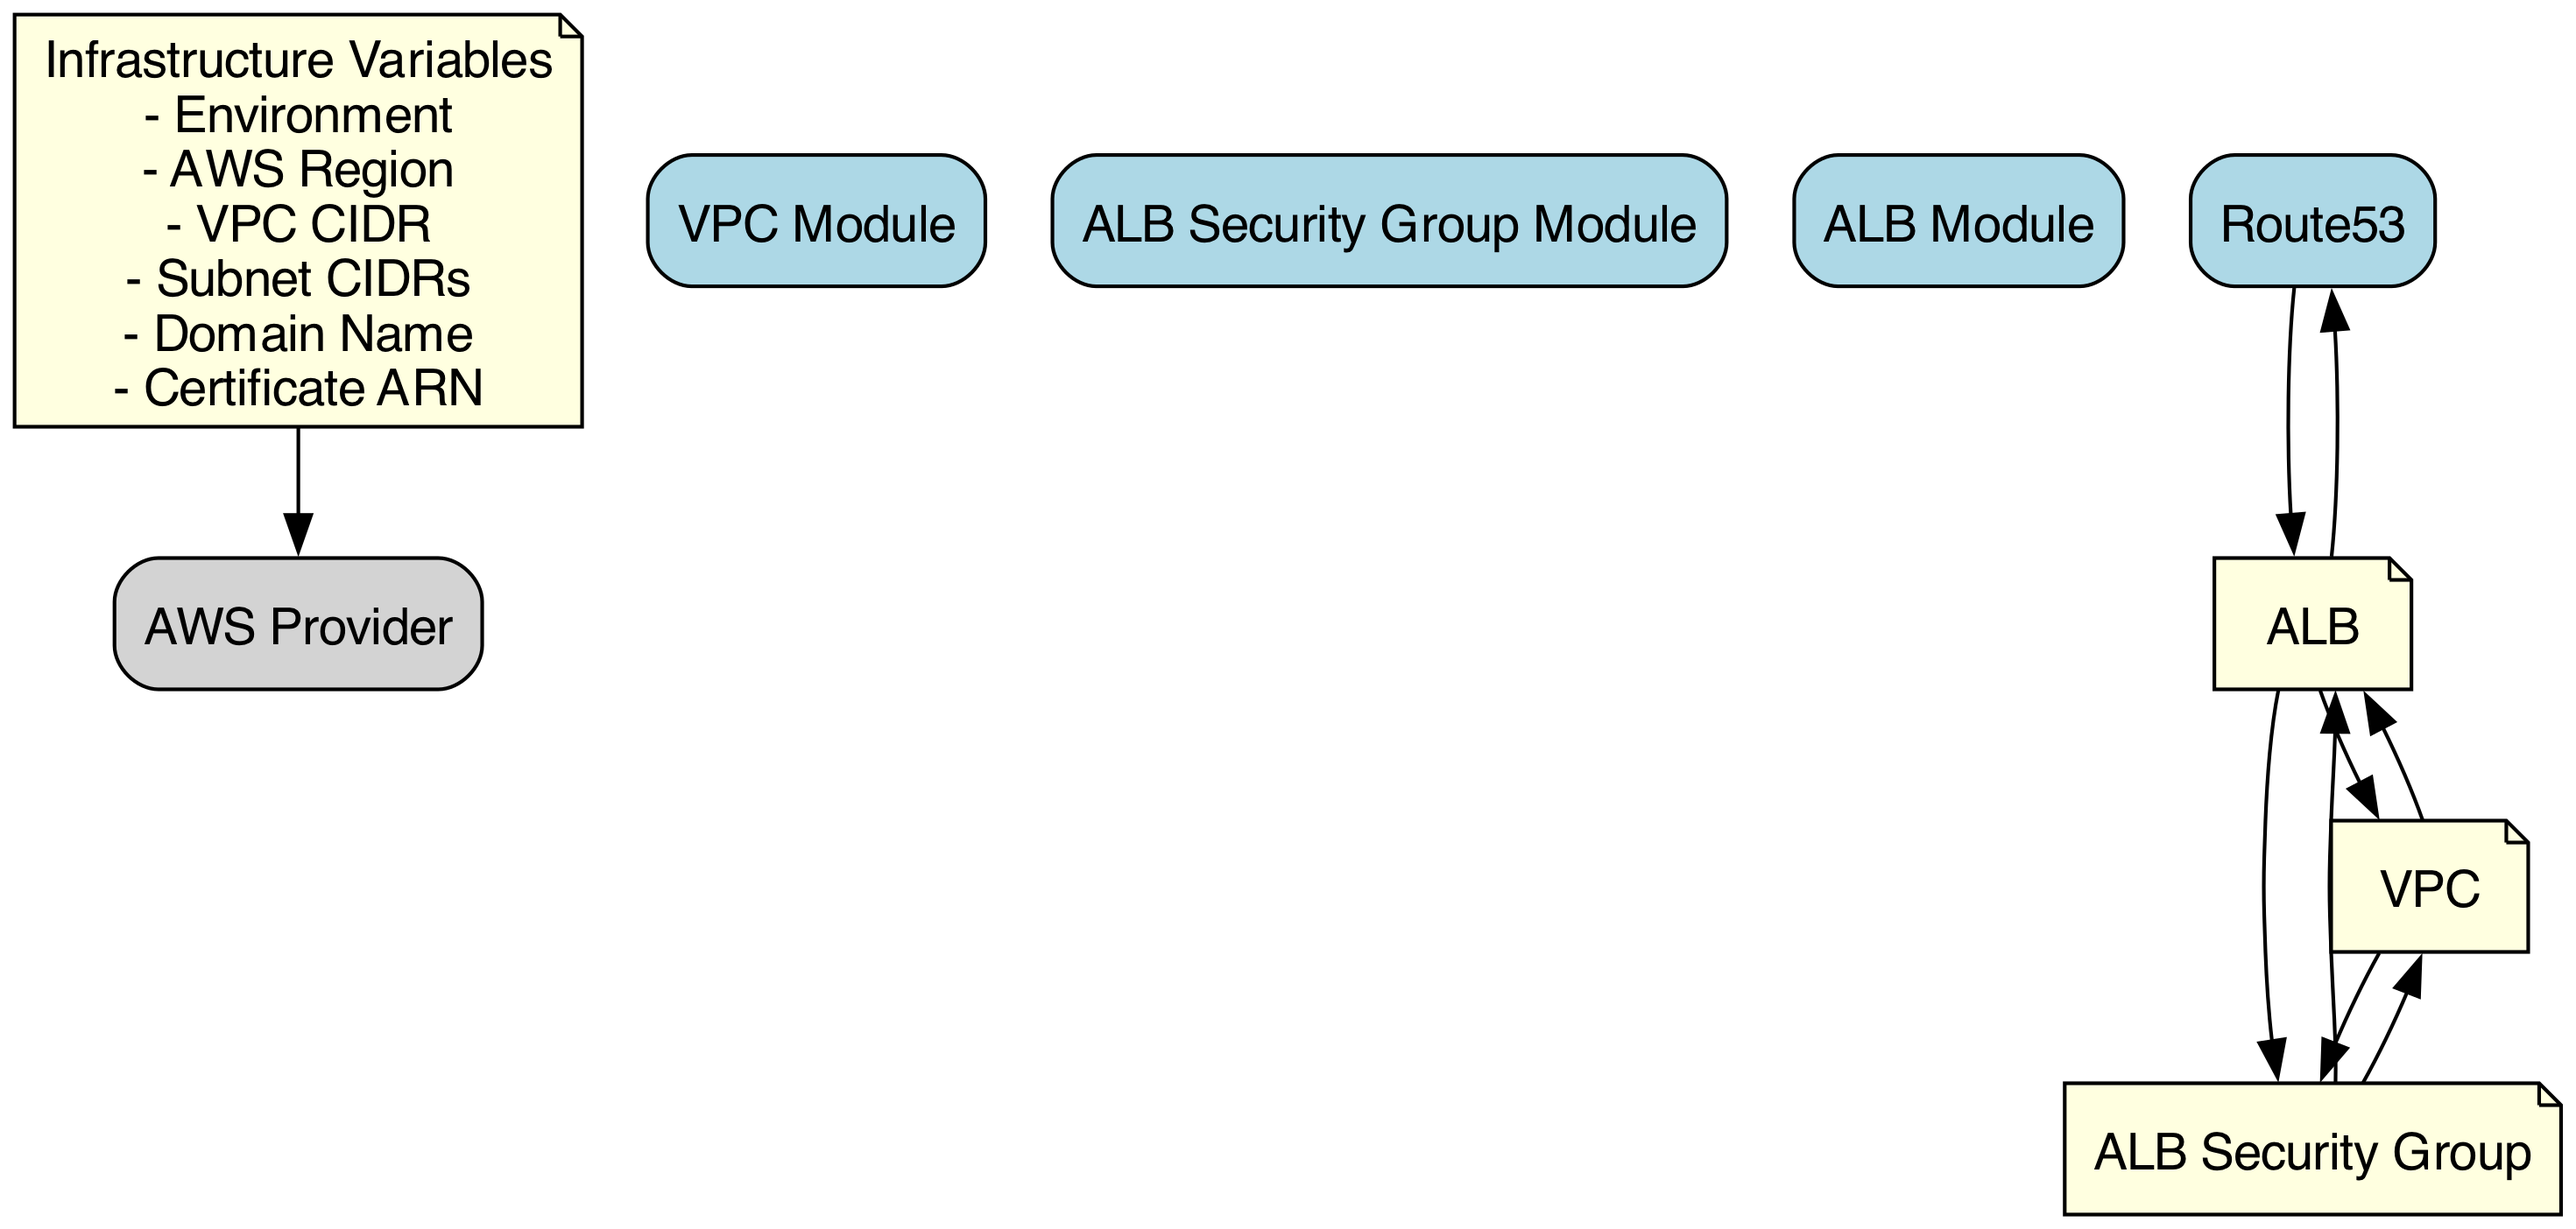
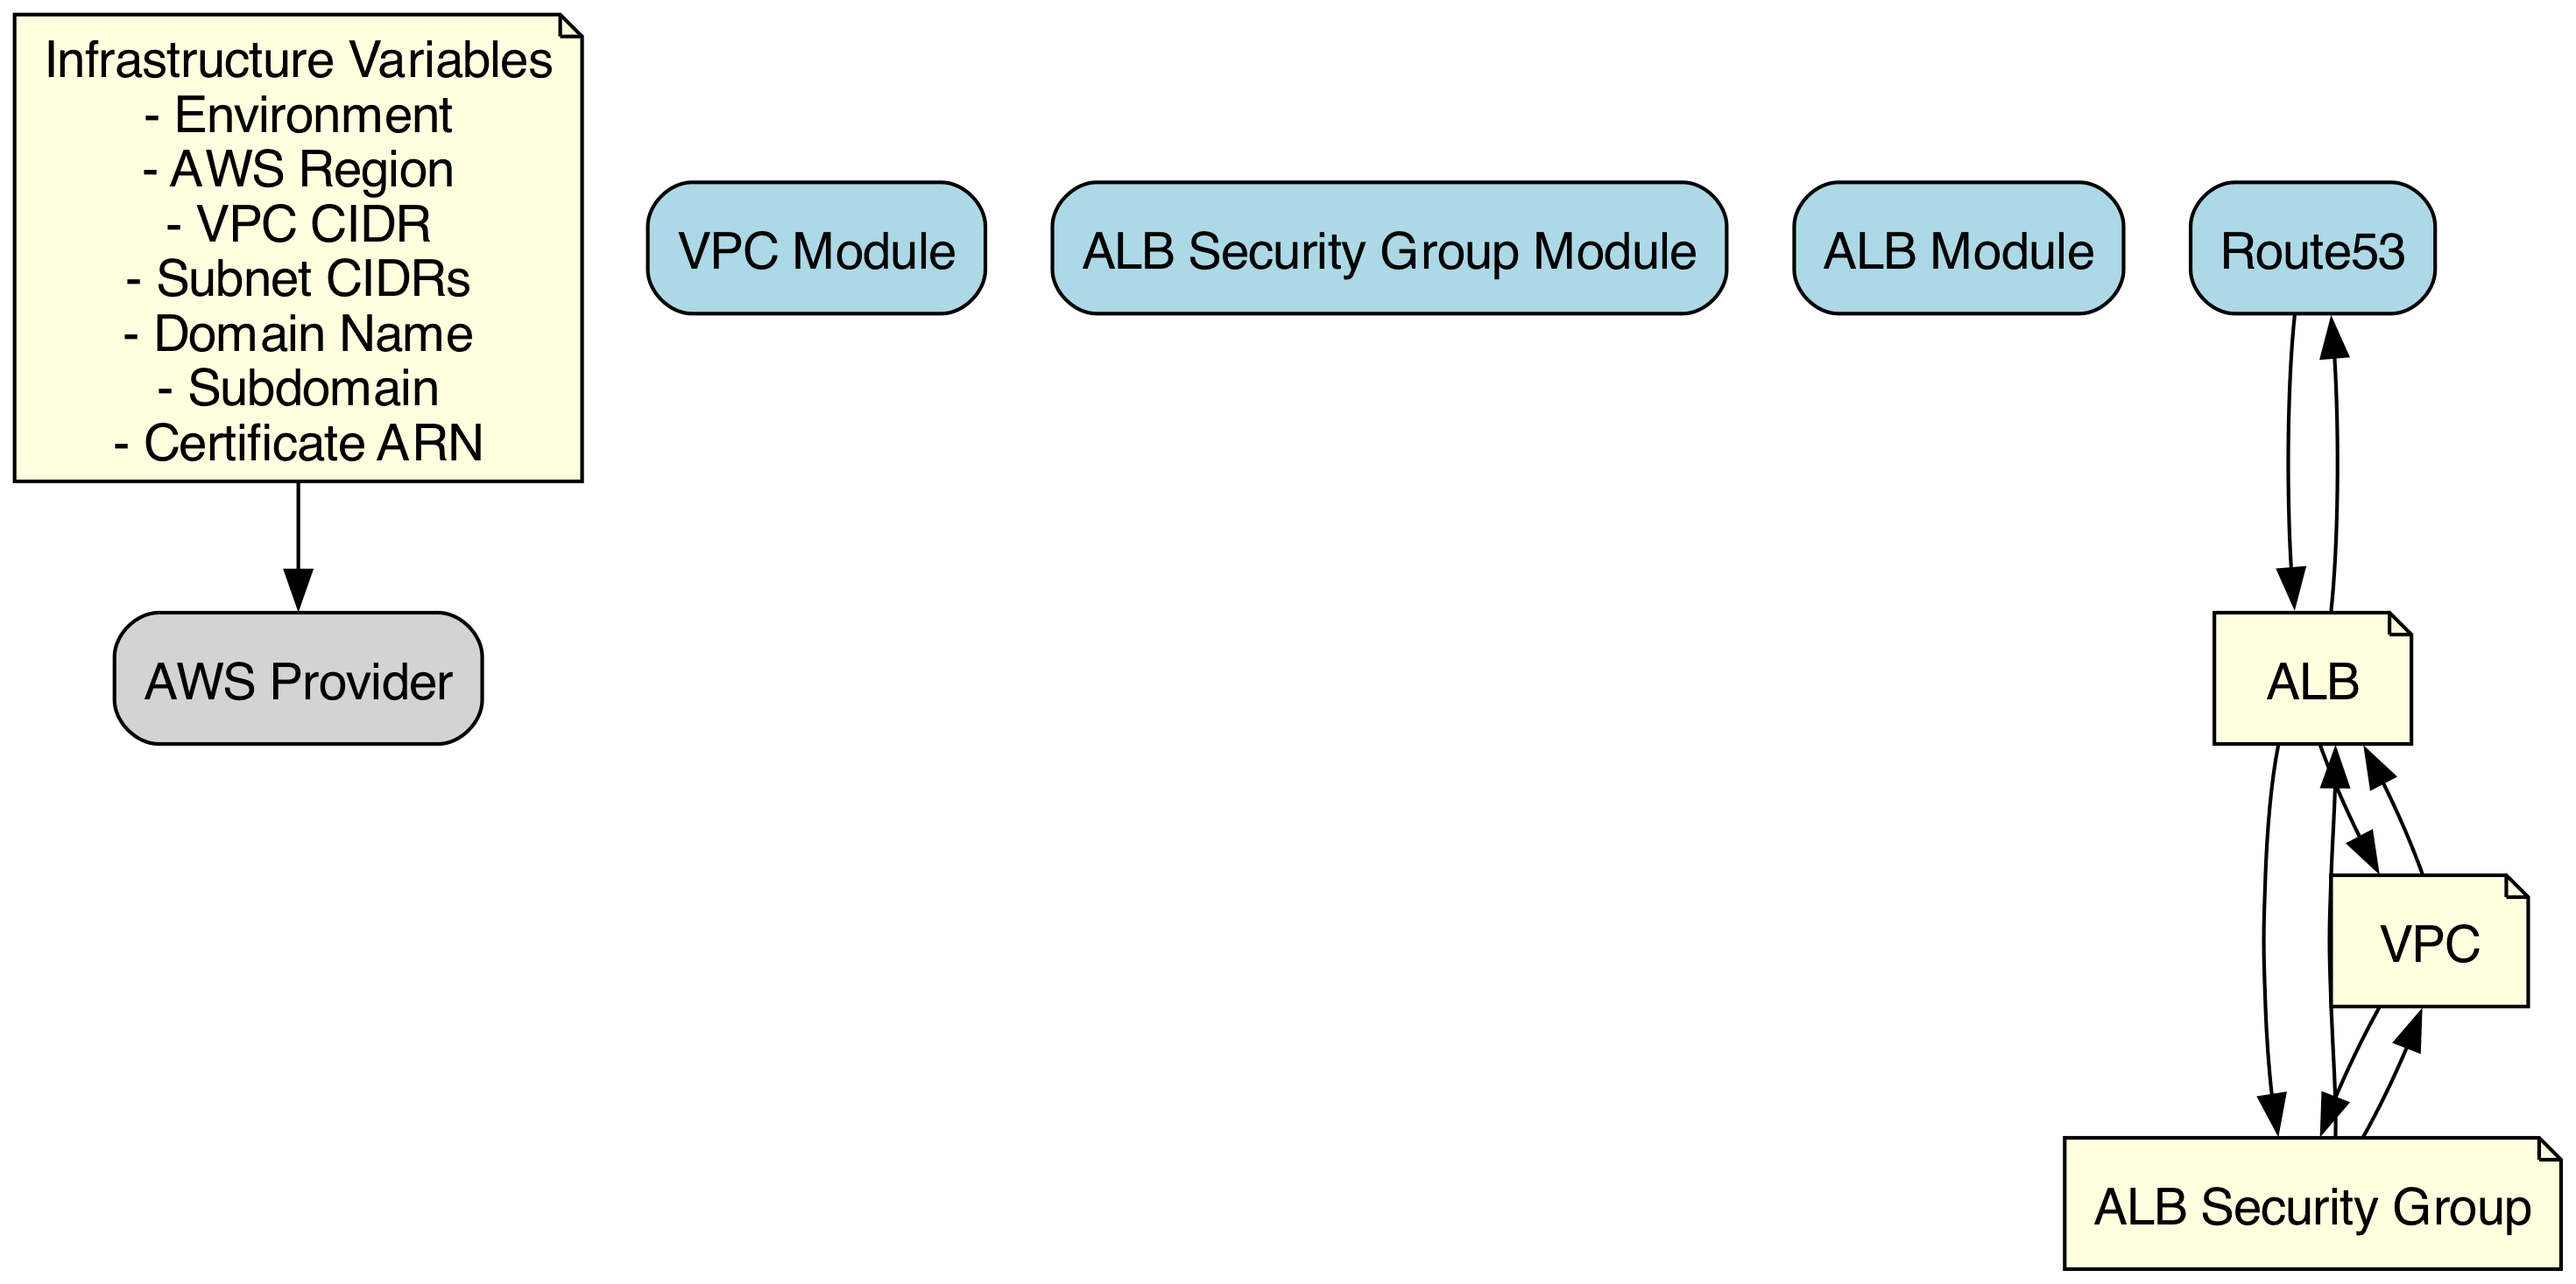
:memo: Update graph script

diff --git a/scripts/simplify_graph.py b/scripts/simplify_graph.py
@@ -10,14 +10,14 @@ def simplify_terraform_graph(input_content):
         "module.alb": "ALB",
         "aws_route53": "Route53"
     }
-    
+
     # Start building the simplified DOT file
     simplified_dot = '''digraph {
     rankdir = "TB"
-    
+
     # Node definitions with better styling
     node [shape=box, style="rounded,filled", fontname="Helvetica", fillcolor=lightblue]
-    
+
     # Modules
     "AWS Provider" [fillcolor=lightgrey]
     "VPC Module" [description="VPC with public/private subnets"]
@@ -27,12 +27,12 @@ def simplify_terraform_graph(input_content):
 
     # Variables
     node [shape=note, fillcolor=lightyellow]
-    "Variables" [label="Infrastructure Variables\\n- Environment\\n- AWS Region\\n- VPC CIDR\\n- Subnet CIDRs\\n- Domain Name\\n- Certificate ARN"]
+    "Variables" [label="Infrastructure Variables\\n- Environment\\n- AWS Region\\n- VPC CIDR\\n- Subnet CIDRs\\n- Domain Name\\n- Subdomain\\n- Certificate ARN"]
 
     # Dependencies
     "Variables" -> "AWS Provider"
 '''
-    
+
     # Extract relationships from the original graph
     relationships = set()
     for line in input_content.split('\n'):
@@ -47,7 +47,7 @@ def simplify_terraform_graph(input_content):
     # Add relationships to the graph
     simplified_dot += "\n".join(sorted(relationships))
     simplified_dot += "\n}"
-    
+
     return simplified_dot
 
 def main():
